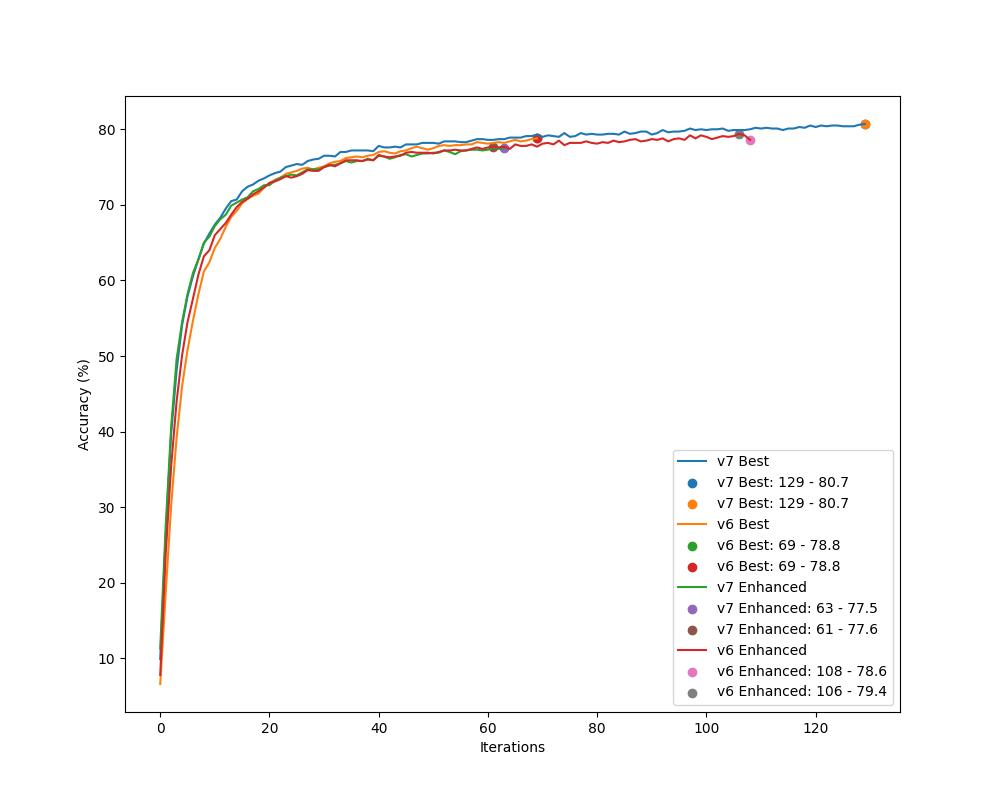
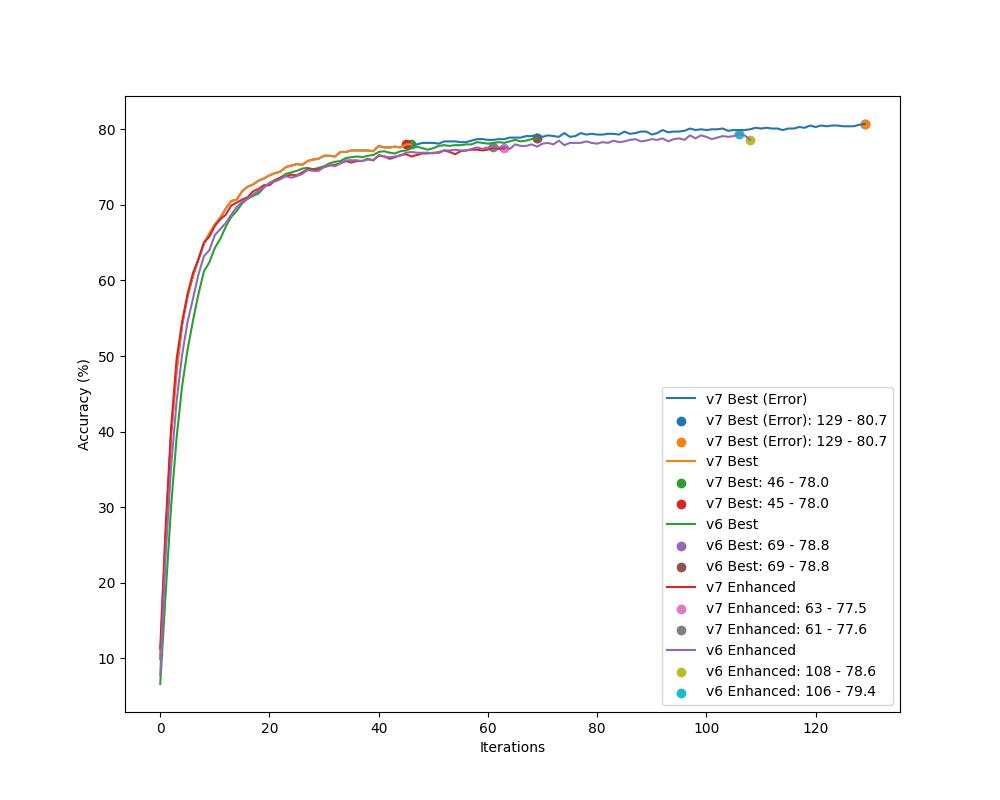
Release: final vrwkv7 1.0 with bug fixed

Changed region(s): [[0.651, 0.4688, 0.899, 0.875], [0.155, 0.1562, 0.775, 0.8438]]

diff --git a/classification/graph.py b/classification/graph.py
@@ -27,7 +27,8 @@ def main():
     # process_logfile(filename="log.txt.4", name="Original")
     # process_logfile(filename="log.txt.5", name="v7 Uni-Shift")
     # process_logfile(filename="log.txt.6", name="v6")
-    process_logfile(filename="log.txt.9", name="v7 Best")
+    process_logfile(filename="log.txt.9", name="v7 Best (Error)")
+    process_logfile(filename="log.txt.11", name="v7 Best")
     process_logfile(filename="log.txt.10", name="v6 Best")
     process_logfile(filename="log.txt.7", name="v7 Enhanced")
     process_logfile(filename="log.txt.8", name="v6 Enhanced")
